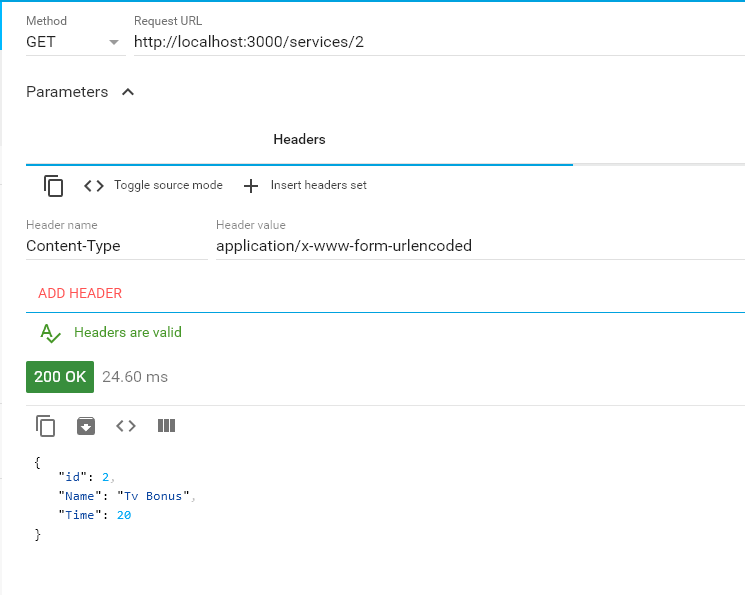
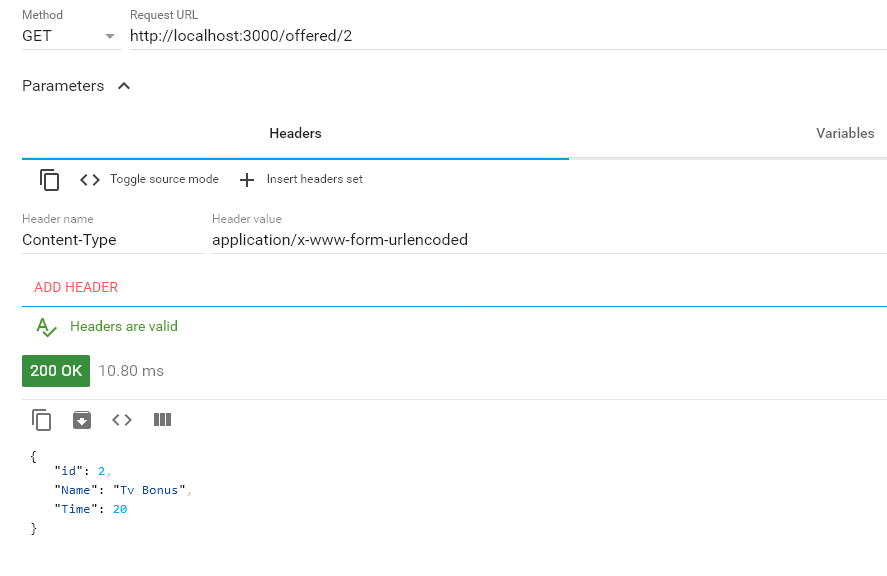
update router, update readme

diff --git a/config/router.config.php b/config/router.config.php
@@ -8,8 +8,8 @@ return [
     'routes' => [
         'GET' => [
             '/' => [OfferedController::class, 'getServices'],
-            'services' => [OfferedController::class, 'getServices'],
-            'services/:id' => [OfferedController::class, 'getServicesById'],
+            'offered' => [OfferedController::class, 'getServices'],
+            'offered/:id' => [OfferedController::class, 'getServicesById'],
             'provided' => [ProvidedController::class, 'getProvided'],
             'provided/:id' => [ProvidedController::class, 'getProvidedById'],
             'saved' => [OfferedController::class, 'timeSaved'],
@@ -17,15 +17,15 @@ return [
             'typology/:type' => [OfferedController::class, 'filterByType'],
         ],
         'POST' => [
-            'services' => [OfferedController::class, 'create'],
+            'offered' => [OfferedController::class, 'create'],
             'provided' => [ProvidedController::class, 'create'],
         ],
         'PUT' => [
-            'services/:id' => [OfferedController::class, 'update'],
+            'offered/:id' => [OfferedController::class, 'update'],
             'provided/:id' => [ProvidedController::class, 'update'],
         ],
         'DELETE' => [
-            'services/:id/delete' => [OfferedController::class, 'delete'],
+            'offered/:id/delete' => [OfferedController::class, 'delete'],
             'provided/:id/delete' => [ProvidedController::class, 'delete'],
         ]
     ]

diff --git a/README.md b/README.md
@@ -103,20 +103,20 @@ risparmiato dai cittadini e di filtrare per data e prestazione.
 
 ### Prestazioni offerte
 
-1. Per leggere tutte le prestazioni offerte usare il metodo GET e inserire /services
+1. Per leggere tutte le prestazioni offerte usare il metodo GET e inserire /offered
  <img src="images/url-services.png">
  <img src="images/response-services.png" >
 
-2. Per leggere una prestazione offerte in particolare usare il metodo GET e inserire /services/:id 
+2. Per leggere una prestazione offerte in particolare usare il metodo GET e inserire /offered/:id 
 <img src="images/id-services.png" >
 
-3. Per inserire una prestazione offerte usare il metodo POST, inserire /services e inserire i parametri "name" e "time"
+3. Per inserire una prestazione offerte usare il metodo POST, inserire /offered e inserire i parametri "name" e "time"
 <img src="images/post-offered.png" >
 
-4. Per modificare una prestazione offerte usare il medoto PUT, inserire /services/:id e inserire i parametri "name" e "time"
+4. Per modificare una prestazione offerte usare il medoto PUT, inserire /offered/:id e inserire i parametri "name" e "time"
 <img src="images/put-offered.png" >
 
-5. Per eliminare una prestazione offerte usare il metodo DELETE e inserire /services/:id/delete
+5. Per eliminare una prestazione offerte usare il metodo DELETE e inserire /offered/:id/delete
 <img src="images/delete-offered.png" >
 
 ### Prestazioni erogate
